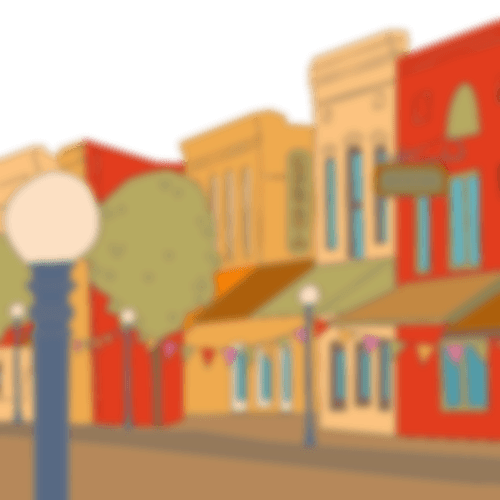
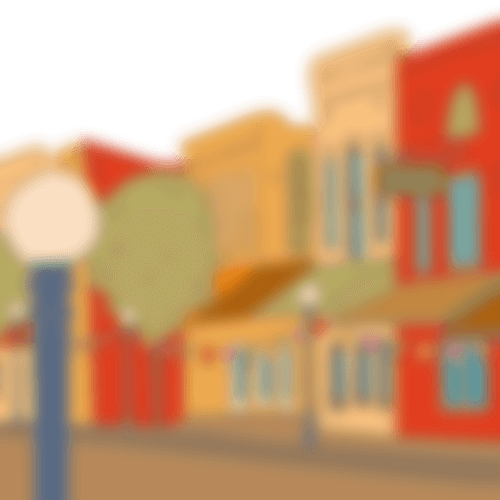
Did some more pair programming with DW to get somethings all nice and fixed up!

diff --git a/app/views/viewgiftcard.html b/app/views/viewgiftcard.html
@@ -8,7 +8,7 @@
              <td style = "width: 33%;">
                  <a href = "#/giftcards">
                     <span class="glyphicon glyphicon-menu-left" style = "color: black; font-size: 25px;vertical-align:middle" aria-hidden="true"></span>
-                     <p style="vertical-align: middle" class = "inline navText blackText">Back</p>
+                     <p style="vertical-align: middle;margin-left: -5px" class = "inline navText blackText">Back</p>
                  </a>
              </td>
              <td class = "paddingLeft paddingRight center">
@@ -24,15 +24,15 @@
     <div class="giftcardContainer center" style = "max-width:500px;">
 
        <!-- Occasion Icon -->
-       <img style = "float: left; margin-top: 10px" ng-src = "{{icons[giftcard.iconId]}}" width= "45px" height = "45px">
+       <img style = "float: left; margin-top: 0px" ng-src = "{{icons[giftcard.iconId]}}" width= "35px" height = "35px">
 
        <!-- div for our text -->
-       <div style = "padding-left: 55px">
+       <div style = "padding-left: 45px">
           <!-- personal message -->
-          <h4 class = "occasionMessage whiteText">{{giftcard.message}}</h4>
+          <div class = "occasionMessage whiteText" style = "margin-top: 0px; font-size: 1.15em">{{giftcard.message}}</div>
 
           <!-- From -->
-          <h3 class = "textRightAlign heart whiteText">~ {{giftcard.fromId.name}}</h3>
+          <h3 class = "textRightAlign heart whiteText" style = "font-size: 1.75em; padding-right: 10px; margin-top: 0px">~ {{giftcard.fromId.name}}</h3>
       </div>
 
       <!-- gift card image -->
@@ -42,8 +42,8 @@
 
     <!-- amount to use at which merchant section -->
     <div class="text-center merchantInfo blackText">
-      <h4 class="center" id="useAmount">Use this ${{giftValue(giftcard.amount)}} gift at</p>
-      <h2 class="center">Doly's Delectables</p>
+      <h4 class="center" id="useAmount" style = "margin-top: 20px; margin-bottom: 0px; font-size: 1.15em">Use this ${{giftValue(giftcard.amount)}} gift at</h4>
+      <h2 class="center" style = "margin-top: 0px;font-weight: 400;margin-bottom: 20px">Doly's Delectables</h2>
     </div>
 
       <!-- use it now/later section -->
@@ -55,7 +55,7 @@
   </div>
   <!-- for beta -->
   <div class="col-xs-12 text-center nearbyMerchant">
-    <h4 class = "blackText">Or use it at one of many local merchants</h4>
+    <h4 class = "blackText">Or select from a list of local merchants</h4>
   </div>
   <div class=""></div>
   <div class="col-xs-4 merchantArrow" ng-click="showMerchantList()"></div>

diff --git a/app/styles/main.scss b/app/styles/main.scss
@@ -124,7 +124,7 @@ body {
 
 body {
   font-family: 'helvetica','sans-serif','arial';
-  background-color: #58e6df;
+  background-color: #4fcfc8;
   padding: 0px;
   margin: 0px;
   height: 100%;
@@ -254,7 +254,7 @@ input, textarea {
   z-index: -2;
   background-size: cover;
   background-position: center top;
-  background-color: #58e6df;
+  background-color: #4fcfc8;
   transition: opacity 1s ease-out 0s; /* CSS property, duration, timing-function, delay */
   -o-transition: opacity 1s ease-out 0s;
   -webkit-transition: opacity 1s ease-out 0s;
@@ -590,7 +590,7 @@ label.inputlabel {
   -webkit-border-radius: 10;
   -moz-border-radius: 10;
   border-radius: 10px;
-  font-size: 20px;
+  font-size: 5vmin;
   font-weight: 600;
   background: white;
   padding: 10px 20px 10px 20px;
@@ -1027,27 +1027,24 @@ input:focus:-ms-input-placeholder {
 }
 
 .swipeLock {
-    width: 71px;
-    height: 71px;
-    max-width:70%;
-    max-height:70%;
+    width: 80px;
+    height: 80px;
     background: url('../images/lock-anim-sprite-wht.png');
-    background-position: right bottom;
-    background-size: cover;
+    background-origin: padding-box;
+    background-size: 60px 60px;
     animation: play 2.5s steps(15) infinite;
+    padding: 5px;
 }
 
 .lockBorder {
     border-style: solid;
     border-radius: 45px;
     border-color: #3fdcd5;
-    width: 80px;
-    height: 80px;
 }
 
 @keyframes play {
-    from { background-position:    0px; }
-    to { background-position: 2130px; }
+    0% { background-position:    0px; }
+    100% { background-position: 2130px; }
 }
 
 textarea {

diff --git a/app/views/tilt-screen.html b/app/views/tilt-screen.html
@@ -11,11 +11,8 @@
 		<!--Merchants name -->
 		<h2 class = "linkText center">{{merchantLocation.name}}</h2>
 
-		<div class = "center lockBorder">
-			<div style = "padding: 10px" class = "center swipeLock" my-touchend= "goTo('/merchants/{{Id}}/tricon')" ng-swipe-left = "goTo('/merchants/{{Id}}/tricon')" ng-swipe-right = "goTo('/merchants/{{Id}}/tricon')">
-			</div>
+		<div style = "padding: 10px" class = "center swipeLock lockBorder" my-touchend= "goTo('/merchants/{{Id}}/tricon')" ng-swipe-left = "goTo('/merchants/{{Id}}/tricon')" ng-swipe-right = "goTo('/merchants/{{Id}}/tricon')">
 		</div>
-		<br>
 	</div>
 
 	<!-- Some Spacing -->

diff --git a/app/views/merchants.html b/app/views/merchants.html
@@ -7,7 +7,7 @@
              <td style = "width: 33%;">
                  <a href = "#/giftcards">
                     <span class="glyphicon glyphicon-menu-left" style = "color: black; font-size: 25px;vertical-align:middle" aria-hidden="true"></span>
-                     <p style="vertical-align: middle" class = "inline navText blackText">Back</p>
+                     <p style="vertical-align: middle;margin-left: -5px" class = "inline navText blackText">Back</p>
                  </a>
              </td>
              <td class = "paddingLeft paddingRight center">

diff --git a/app/scripts/controllers/recipientredirect.js b/app/scripts/controllers/recipientredirect.js
@@ -28,6 +28,14 @@ angular.module('angularLocalightApp')
         }
     }, false);
 
+    //Switch overlay off
+    document.getElementById('darkerOverlay').style.display = "none";
+
+    //Make the background blurred
+    setTimeout(function () {
+        document.getElementById("localStreetNoBlur").className = "localStreet blur";
+    }, 750);
+
     //Get the session token and save it
     var sessionToken = $routeParams.token;
 
